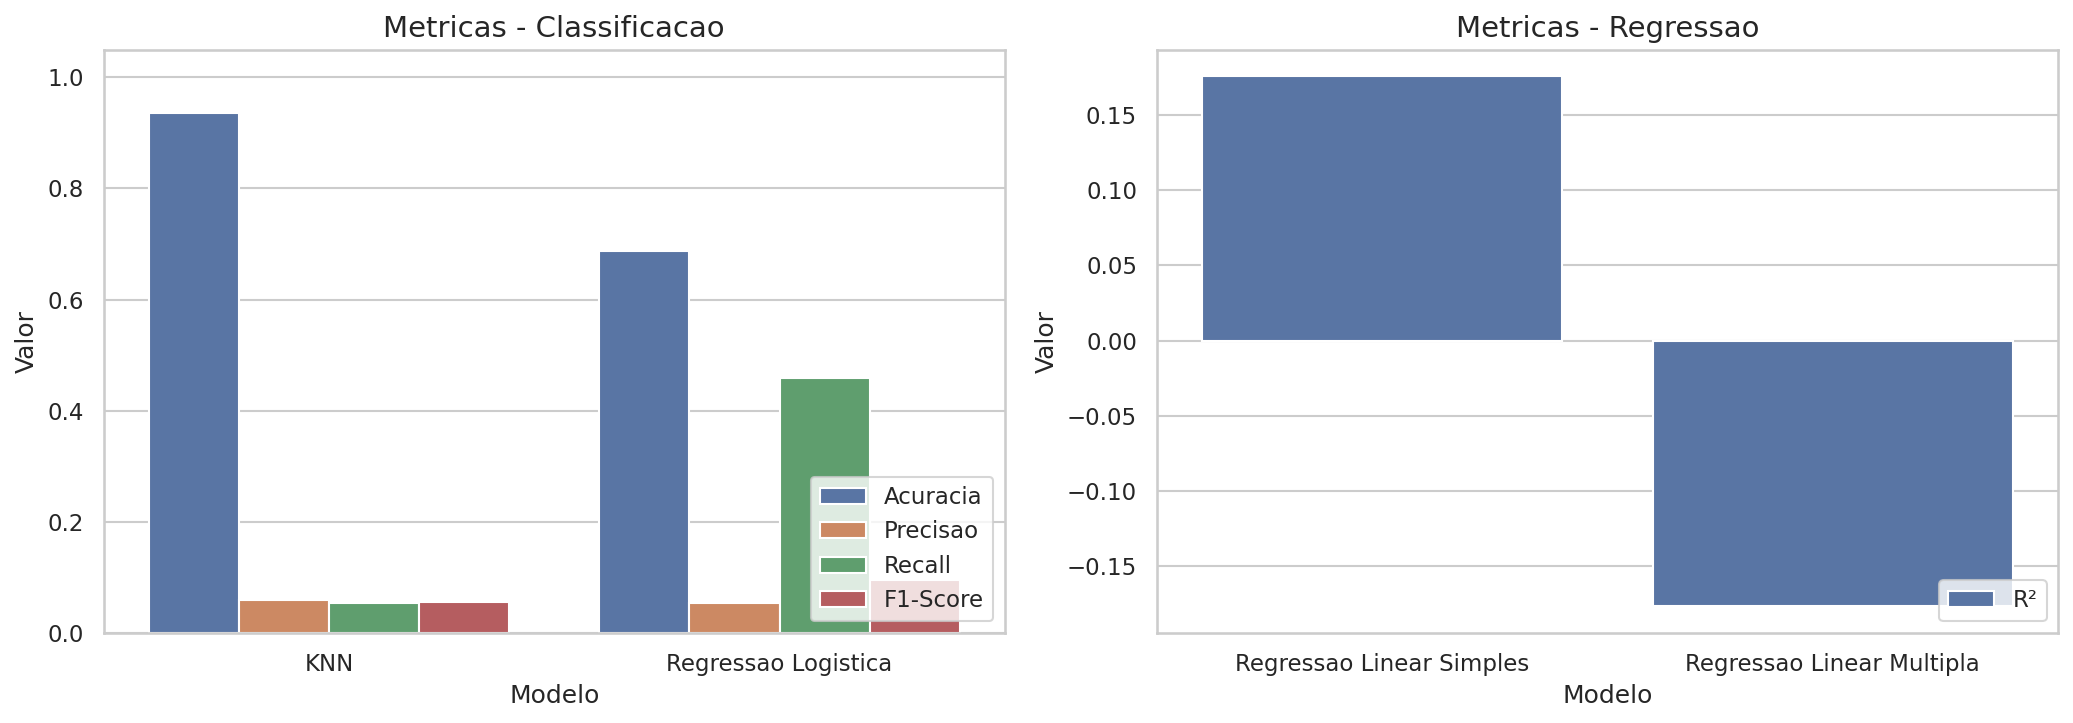
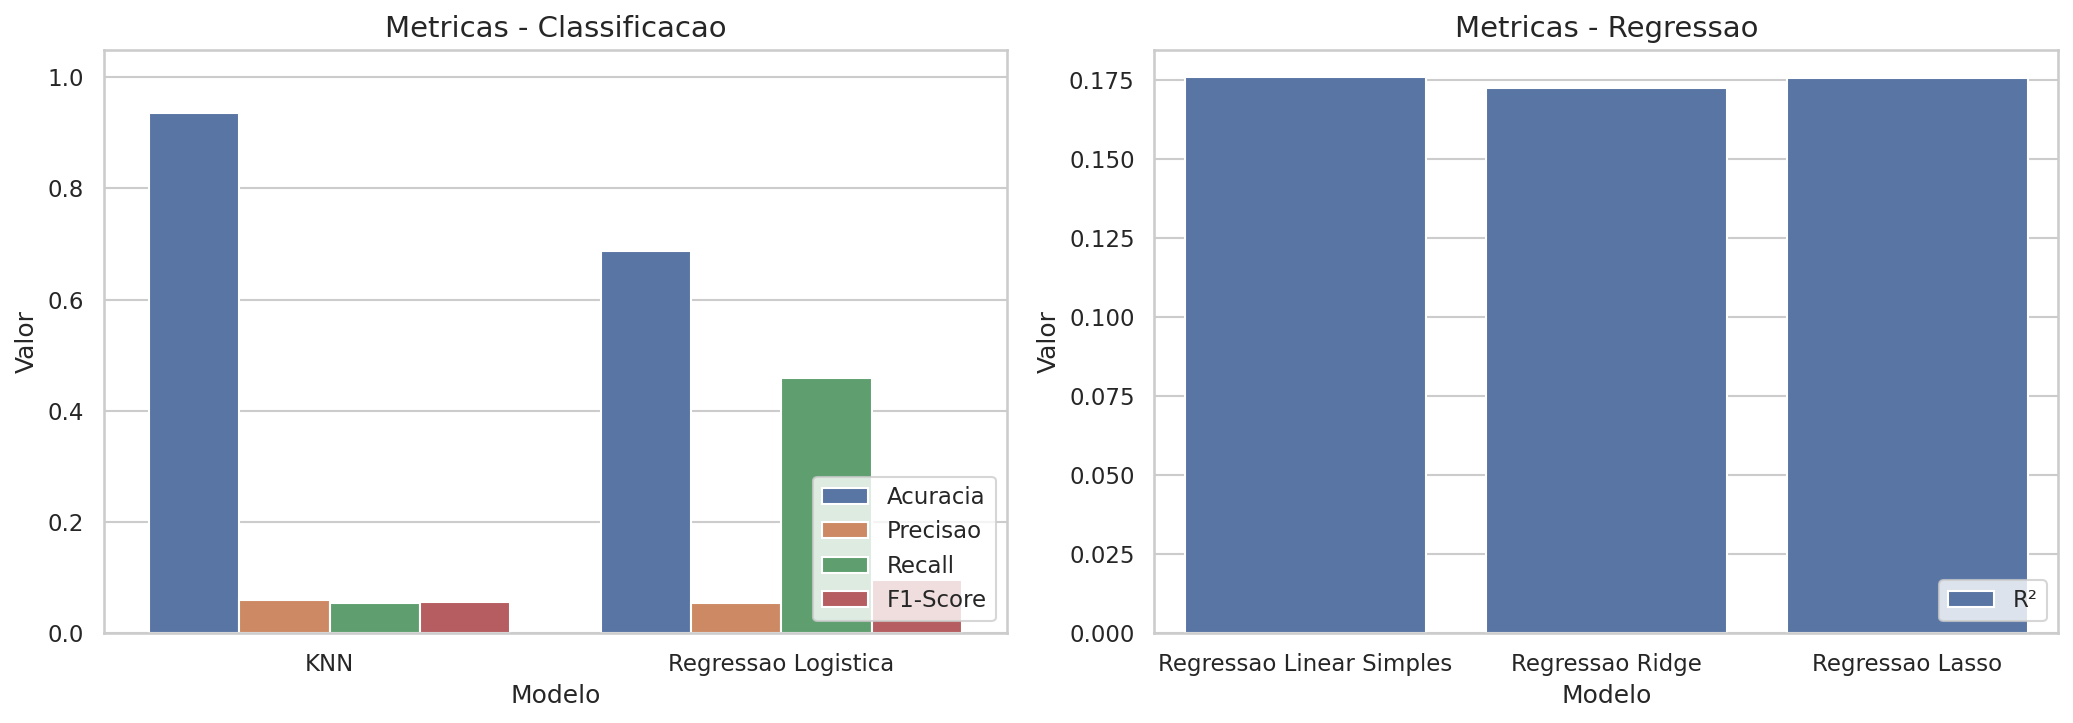
Adiciona graficos ROC e coeficientes para regressao logistica; substitui regressao multipla por Ridge/Lasso com tuning de alpha

diff --git a/TrabalhoFinal/model_service.py b/TrabalhoFinal/model_service.py
@@ -5,7 +5,7 @@ import pandas as pd
 import numpy as np
 from sklearn.model_selection import train_test_split
 from sklearn.neighbors import KNeighborsClassifier
-from sklearn.linear_model import LinearRegression, LogisticRegression
+from sklearn.linear_model import LinearRegression, LogisticRegression, Ridge, Lasso
 from sklearn.metrics import (
     accuracy_score, precision_score, recall_score, f1_score,
     confusion_matrix, r2_score, mean_squared_error, roc_auc_score
@@ -174,12 +174,12 @@ def run_regressao_simples(df_agg_semana):
     }
 
 
-def run_regressao_multipla(df_agg_semana):
+def run_regressao_multipla_regularizada(df_agg_semana):
     logger.info("=" * 50)
-    logger.info("Regressao Linear Multipla (casos ~ sem_not + nu_ano + sg_uf_not)")
+    logger.info("Regressao Regularizada (Ridge + Lasso) com tuning de alpha")
 
     if df_agg_semana is None or "casos" not in df_agg_semana.columns:
-        logger.warning("Agregacao semanal nao disponivel. Pulando Reg. Multipla.")
+        logger.warning("Agregacao semanal nao disponivel. Pulando Reg. Regularizada.")
         return None
 
     agg = df_agg_semana.copy()
@@ -187,7 +187,7 @@ def run_regressao_multipla(df_agg_semana):
     logger.info("df_agg_semana.head(3):\n%s", agg.head(3).to_string())
 
     if agg.shape[0] < 10:
-        logger.warning("Poucas linhas (%d) para regressao multipla.", agg.shape[0])
+        logger.warning("Poucas linhas (%d) para regressao regularizada.", agg.shape[0])
         return None
 
     agg["sem_not_int"] = pd.to_numeric(agg["sem_not"], errors="coerce")
@@ -196,16 +196,12 @@ def run_regressao_multipla(df_agg_semana):
     features = ["sem_not_int", "nu_ano"]
 
     if "sg_uf_not" in agg.columns:
-        # LabelEncoder (ordinal) usado no lugar de OneHotEncoder porque o dataset
-        # agregado tem apenas ~251 linhas — 11 dummies para UF causariam
-        # perda severa de graus de liberdade e R² negativo (observado na pratica).
-        # Alternativa futura: Ridge Regression com one-hot encoding regularizado.
         from sklearn.preprocessing import LabelEncoder
         le = LabelEncoder()
         agg["uf_encoded"] = le.fit_transform(agg["sg_uf_not"].astype(str))
         features.append("uf_encoded")
 
-    logger.info("Features para regressao multipla: %s", features)
+    logger.info("Features para regressao regularizada: %s", features)
 
     X = agg[features].values
     y = agg["casos"].values
@@ -214,23 +210,45 @@ def run_regressao_multipla(df_agg_semana):
         X, y, test_size=0.2, random_state=42
     )
 
-    model = LinearRegression()
-    model.fit(X_train, y_train)
-    y_pred = model.predict(X_test)
+    alphas = np.logspace(-3, 3, 20)
+    resultados = []
 
-    r2 = r2_score(y_test, y_pred)
-    rmse = np.sqrt(mean_squared_error(y_test, y_pred))
+    for ModelClass, nome in [(Ridge, "Ridge"), (Lasso, "Lasso")]:
+        scores = []
+        for alpha in alphas:
+            model = ModelClass(alpha=alpha, max_iter=10000, random_state=42)
+            model.fit(X_train, y_train)
+            y_pred = model.predict(X_test)
+            scores.append(r2_score(y_test, y_pred))
 
-    logger.info("R²: %.4f | RMSE: %.2f", r2, rmse)
+        best_idx = int(np.argmax(scores))
+        best_alpha = float(alphas[best_idx])
 
-    return {
-        "modelo": "Regressao Linear Multipla",
-        "tipo": "regressao",
-        "r2": r2,
-        "rmse": rmse,
-        "y_test": y_test,
-        "y_pred": y_pred,
-    }
+        best_model = ModelClass(alpha=best_alpha, max_iter=10000, random_state=42)
+        best_model.fit(X_train, y_train)
+        y_pred = best_model.predict(X_test)
+
+        r2 = r2_score(y_test, y_pred)
+        rmse = np.sqrt(mean_squared_error(y_test, y_pred))
+
+        logger.info("%s - Melhor alpha: %.4f | R²: %.4f | RMSE: %.2f",
+                     nome, best_alpha, r2, rmse)
+
+        resultados.append({
+            "modelo": f"Regressao {nome}",
+            "tipo": "regressao",
+            "r2": r2,
+            "rmse": rmse,
+            "y_test": y_test,
+            "y_pred": y_pred,
+            "alpha_curve": {
+                "alphas": alphas.tolist(),
+                "scores": scores,
+                "best_alpha": best_alpha,
+            },
+        })
+
+    return resultados
 
 
 def run_logistica(df):
@@ -246,6 +264,8 @@ def run_logistica(df):
     if X.shape[1] == 0:
         logger.warning("Nenhuma feature disponivel. Pulando Reg. Logistica.")
         return None
+
+    feature_names = X.columns.tolist()
 
     X_train, X_test, y_train, y_test = train_test_split(
         X, y, test_size=0.2, random_state=42, stratify=y
@@ -289,6 +309,8 @@ def run_logistica(df):
         "y_test": y_test,
         "y_pred": y_pred,
         "y_prob": y_prob,
+        "coef": model.coef_[0].tolist(),
+        "feature_names": feature_names,
     }
 
 
@@ -307,9 +329,9 @@ def run_models(df, df_agg_semana=None):
     if reg_simples:
         resultados.append(reg_simples)
 
-    reg_mult = run_regressao_multipla(df_agg_semana)
-    if reg_mult:
-        resultados.append(reg_mult)
+    reg_ridge_lasso = run_regressao_multipla_regularizada(df_agg_semana)
+    if reg_ridge_lasso:
+        resultados.extend(reg_ridge_lasso)
 
     logistica = run_logistica(df)
     if logistica:

diff --git a/TrabalhoFinal/viz_service.py b/TrabalhoFinal/viz_service.py
@@ -216,6 +216,92 @@ def plot_distribuicao_casos(df):
     _salvar(fig, "grafico_distribuicao_casos")
 
 
+def plot_roc_curve_logistica(resultados):
+    logger.info("Gerando curva ROC para Regressao Logistica...")
+
+    log_result = next(
+        (r for r in resultados if r.get("modelo") == "Regressao Logistica" and "y_prob" in r),
+        None
+    )
+    if log_result is None:
+        logger.warning("Resultado da Regressao Logistica nao encontrado para curva ROC.")
+        return
+
+    from sklearn.metrics import roc_curve
+
+    y_test = log_result["y_test"]
+    y_prob = log_result["y_prob"]
+    auc = log_result.get("roc_auc", 0)
+
+    fpr, tpr, _ = roc_curve(y_test, y_prob)
+
+    fig, ax = plt.subplots(figsize=(8, 6))
+    ax.plot(fpr, tpr, "b-", linewidth=2, label=f"ROC Curve (AUC = {auc:.4f})")
+    ax.plot([0, 1], [0, 1], "k--", linewidth=1, label="Aleatorio")
+    ax.set_xlabel("Taxa de Falsos Positivos (FPR)")
+    ax.set_ylabel("Taxa de Verdadeiros Positivos (TPR)")
+    ax.set_title("Curva ROC - Regressao Logistica", fontsize=14)
+    ax.legend(loc="lower right")
+    ax.grid(True, alpha=0.3)
+    ax.set_xlim(0, 1)
+    ax.set_ylim(0, 1)
+
+    _salvar(fig, "grafico_roc_logistica")
+
+
+def plot_coeficientes_logistica(resultados):
+    logger.info("Gerando grafico de coeficientes da Regressao Logistica...")
+
+    log_result = next(
+        (r for r in resultados if r.get("modelo") == "Regressao Logistica" and "coef" in r),
+        None
+    )
+    if log_result is None:
+        logger.warning("Coeficientes da Regressao Logistica nao encontrados.")
+        return
+
+    coef = np.array(log_result["coef"])
+    features = log_result["feature_names"]
+
+    idx = np.argsort(np.abs(coef))
+
+    fig, ax = plt.subplots(figsize=(10, max(6, len(features) * 0.35)))
+    colors = ["coral" if c < 0 else "steelblue" for c in coef[idx]]
+    ax.barh(range(len(features)), coef[idx], color=colors)
+    ax.set_yticks(range(len(features)))
+    ax.set_yticklabels([features[i] for i in idx])
+    ax.axvline(0, color="black", linewidth=0.8)
+    ax.set_xlabel("Coeficiente")
+    ax.set_title("Coeficientes da Regressao Logistica", fontsize=14)
+    ax.grid(True, alpha=0.3, axis="x")
+
+    _salvar(fig, "grafico_coeficientes_logistica")
+
+
+def plot_alpha_curve(resultados):
+    logger.info("Gerando curva de tuning de alpha (Ridge + Lasso)...")
+
+    reg_results = [r for r in resultados if r.get("alpha_curve") is not None]
+    if not reg_results:
+        logger.warning("Nenhum resultado com curva de alpha encontrado.")
+        return
+
+    fig, ax = plt.subplots(figsize=(10, 6))
+
+    for r in reg_results:
+        ac = r["alpha_curve"]
+        ax.semilogx(ac["alphas"], ac["scores"], "o-",
+                     label=f"{r['modelo']} (melhor alpha={ac['best_alpha']:.4f})")
+
+    ax.set_xlabel("Alpha (escala log)")
+    ax.set_ylabel("R²")
+    ax.set_title("Tuning de Regularizacao - Ridge vs Lasso", fontsize=14)
+    ax.legend(loc="best")
+    ax.grid(True, alpha=0.3)
+
+    _salvar(fig, "grafico_alpha_curve")
+
+
 def run_viz(df, resultados):
     logger.info("=" * 60)
     logger.info("INICIANDO GERACAO DE GRAFICOS")
@@ -228,6 +314,9 @@ def run_viz(df, resultados):
     plot_regressoes(resultados)
     plot_curva_aprendizado(df, resultados)
     plot_distribuicao_casos(df)
+    plot_roc_curve_logistica(resultados)
+    plot_coeficientes_logistica(resultados)
+    plot_alpha_curve(resultados)
 
     logger.info("=" * 60)
     logger.info("GERACAO DE GRAFICOS FINALIZADA")
